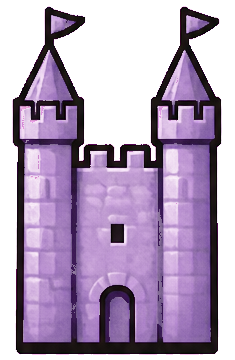
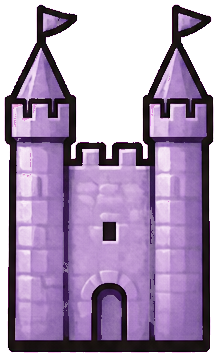
Fix inconsistently-small pieces (Rome worst) and bump overall piece size
CivilizationBadge scales pieces to fit via .scaledToFit() into a fixed
size x size box, so dead transparent margin baked into a piece's PNG
directly shrinks how big it actually renders. Checked every piece's
real alpha content bbox against its canvas: fill ratios ranged from
~100% down to rome-settlement.png's 65%x59% - the worst by far,
matching the 'Rome is extra small' report exactly. Tight-cropped all
16 piece PNGs to their actual content bbox (4px safety margin) to fix
the inconsistency.

Also bumped BoardView's settlement/city size multipliers from
0.58/0.68 to 0.68/0.80 for the general 'make them all bigger' ask.

Claude-Session: https://claude.ai/code/session_01454PvXy951ApESgbZz1ejR

diff --git a/Settlers/Views/Board/BoardView.swift b/Settlers/Views/Board/BoardView.swift
@@ -162,13 +162,14 @@ public struct BoardView: View {
         ForEach(sortedVertices, id: \.self) { vertex in
             if let owner = ownership.owner(ofSettlementOrCity: vertex) {
                 let position = geometry.vertexPosition(vertex, board: board)
-                // Settlements bumped up from 0.48 - they read as too small
-                // next to a city, especially once `CivilizationBadge` added
-                // the etched detail/pennant (which need real size to stay
-                // legible). Cities nudged up too, so the settlement -> city
-                // size jump stays clearly noticeable rather than shrinking
-                // once settlements got closer to their old size.
-                let size = geometry.size * (owner.isCity ? 0.68 : 0.58)
+                // Settlements bumped up from 0.48, then again from 0.58 -
+                // pieces read as too small on the actual board, especially
+                // once `CivilizationBadge` added the etched detail/pennant
+                // (which need real size to stay legible). Cities nudged up
+                // too, so the settlement -> city size jump stays clearly
+                // noticeable rather than shrinking once settlements got
+                // closer to their old size.
+                let size = geometry.size * (owner.isCity ? 0.80 : 0.68)
                 let civilization = Civilization.forSeat(owner.player.index)
                 CivilizationBadge(civilization: civilization, isCity: owner.isCity, size: size)
                     .position(position)

diff --git a/design-references/STATUS.md b/design-references/STATUS.md
@@ -154,6 +154,18 @@ the container's aspect ratio isn't fixed/known ahead of time; reserve full paint
 chip, bank chip, port frame) for spots where the container's proportions are stable enough to actually
 match a single generation.
 
+## Aug 21 piece-size pass
+
+Feedback: settlements/cities read as too small on the board, Rome especially so. Checked actual pixel
+content vs. canvas size (`im.getchannel("A").getbbox()`) across all 16 piece PNGs and found the real bug:
+wildly inconsistent dead transparent margin baked into each canvas - `CivilizationBadge` renders via
+`.scaledToFit()` into a fixed `size x size` box, so any margin directly shrinks the visible piece.
+`rome-settlement.png` was the worst offender, filling only 65% width x 59% height of its own canvas (most
+other pieces were near 90-100%) - exactly matching "Rome is extra small." Tight-cropped all 16 to their
+actual alpha content bbox (4px safety margin), which fixed the inconsistency directly. Separately, also
+bumped `BoardView`'s own size multipliers (`geometry.size * ...`) from 0.58/0.68 to 0.68/0.80
+(settlement/city) for the general "make them bigger" ask on top of that.
+
 ## Other pending work
 
 1. **HUD player card (the colored info panel per player)** — deliberately not reskinned. It has 9 places
